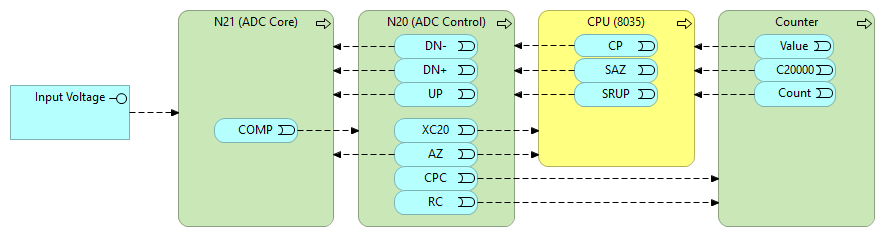
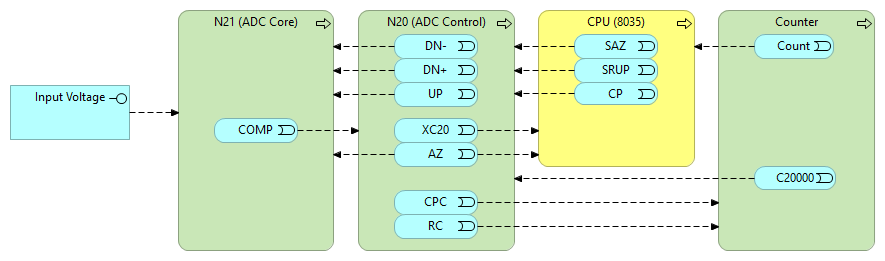
Created new screenshots, removed todo-part of the text. Still todo.

diff --git a/Deepdive/ADC/README.md b/Deepdive/ADC/README.md
@@ -24,62 +24,63 @@ Performing a measurement requires four components: The CPU, Expansion boards N20
 The CPU is the director of a measurement. It:
 - Feeds the clocksignal (**CP**) to the ADC Control
 - Commands the ADC Control to start a measurement with **SRUP** (Start Ramp Up) and auto-zero the ADC via **SAZ**(Set Auto Zero)
-- Counts Counter-overflows through **C2000** pulses.
+- Processes the number of counter-overflows (**XC20**)
 - Reads the final count-value from the Counter (**Count**) when the measurement finishes
 
 #### Board N20 (ADC Control)
 This board forms the digital control interface between the microcontroller, the ADC core and the Counter. Its functions include:
 - Sends control signals like **AZ** (Auto Zero), **UP**/**DN+**/**DN-** (Ramp UP, DowN for positive resp negative input voltages)
-- Generate the **CPC** (Clock Pulse Counter) signal for the Counter, which is just **CP** gated by **COMP**
+- Generate the **CPC** (Clock Pulse Counter) signal for the Counter, which is essentially **CP** gated by **COMP**
+- Counts Counter-overflows through **C2000** pulses, sends them to the CPU (**XC20**)
 - Resets the Counter via the **RC** (Reset Counter) pulse
 
 #### Board N21 (ADC Core)
 Here lies the analog heart of the converter:
 - Signal Input Path: Receives scaled signals from the analog front-end
-- Reference Voltage: Provides stable reference for de-integration phase
+- It provides a stable reference voltage for the de-integration phase
 - Auto-Zeroing: Ensures measurement accuracy by compensating for offset voltages. It is triggered by the **AZ** signal from the ADC Control.
 - Integrator: An op-amp and capacitor form the core integration circuit
 - Comparator: Detects when the integrator output crosses zero
 - Generate the **COMP** signal which indicates the ADC core is still busy (the name is probably short for COMPuting or COMPerator)
 
 #### The Counter
-Simple but essential: the Counter just counts pulses. It gets a clock pulse (**CPC**) from the ADC Control. When it overflows, it raises **C20000**. These pulses are counted by the CPU.
+Simple but essential: the Counter just counts pulses. It gets a clock pulse (**CPC**) from the ADC Control. When it overflows, it raises **C20000**. And when it's time to reset, it receives a signal (**RC**) from the ADC Control.
 
 # A Measurement Cycle in action
 Let’s walk through a full measurement cycle, based on scope captures and logic traces. We'll do this top-down, so first an overview, then the details.
 
-_Note: In the images below, the analogue traces are offset by +5V. That's because the digital 0V is -5V in reference to the analogue 0V. As a scope knows just one 0V (GND)._
+_Note: In the images below, the analogue traces are offset by +5V. That's because the digital 0V is -5V in reference to the analogue 0V and this is the way to show two signals in one screenshot (apart from Photoshop)._
 
-The screencapture below shows a full ADC-cycle. The input voltage is about 1.63V DC, the meter is in 2V range. The digital signals (top of the screen) are the signals as seen from the CPU's point of view.
+The screencapture below shows a full ADC-cycle. The input voltage is about 1351mV DC, the meter is in 2V range. The digital signals (top of the screen) are the signals as seen from the CPU's point of view.
 
-![ADC Full MeasurementCycle](assets/ADC_FullMeasurementCycle_1V63.png "A complete measurement-cycle").
+![ADC Full MeasurementCycle](assets/ADC_FullMeasurementCycle_1351mV.png "A complete measurement-cycle").
 
 #### @0ms: start of the cycle
-- The CPU releases the **AZ** signal. The other circuits are now able to accept measurement-signals
-- The CPU sets the **UP** signal. This initiates the 'Ramp-Up' phase.
-- The CPU leaves the **DN+** and **DN-** signal low, indicating no 'Ramp-Down' phase.
-- The input-signal is offered to the ADC (**TP2105**, yellow trace)
-- The ADC (**TP2106**, purple trace) starts integrating
-- The **COMP** signal is asserted by the ADC, meaning it's working hard
+- The input-signal (reverse polarity!) is offered to the ADC (**yellow trace**)
+- The CPU sets the **SRUP** signal. This initiates the 'Ramp-Up' phase.
+- The **AZ** signal is set low by the ADC-control, indicating there's no auto-zeroing going on.
 
-#### @100ms: The fixed time Ramp-Up phase is ready
-- The **UP** signal is reset
-- The **DN+** signal is set, meaning we're starting the Down-Ramp phase
-- The measurement-signal (**TP2105**, yellow trace) is set to the reference-voltage, with an opposite sign as the input-signal
-- The ADC (**TP2106**, purple trace) starts draining
-- The **COMP** signal stays high, as the ADC is still working.
+#### @0-100ms: Ramp-up phase
+- The ADC (**purple trace**) is integrating
+- As this is a fixed time phase, under control of the ADC Control, the CPU does not receive any signal. Note there are no timer-overflow (**XC20**) pulses.
+- Watch the clockpulses (**CP**) pulsing
 
-#### @180ms: Measurement ready
-- The ADC has is crossing zero, meaning we're ready.
-- The CPU asserts **AZ** indicating 'zero everything'
-- **DN+** is reset, indicating we're done with the Ramp-Down phase
-- The measurement-signal (**TP2105**, yellow trace) is set to 0V
-- The **COMP** signal is reset by the ADC, indicating is resting now.
+#### @100ms: The fixed-time Ramp-Up phase is ready, starting the Ramp-Down phase
+- The measurement-signal (**yellow trace**) is set to the reference-voltage (opposite polarity of the input voltage, which was already inversed)
+
+#### @100-170ms: Ramp-down phase
+- The ADC (**purple trace**) keeps draining
+- Now every 20000 pulses of the clock, the CPU receives the Counter Overflow pulse (**XC20**). The CPU counts the number of these pulses.
+
+#### @170ms: Measurement ready
+- The ADC (**purple trace**) has crossed zero, meaning we're ready. The CPU knows this, because the AutoZero signal (**AZ**) has been set by the ADC Control.
+- The CPU asserts **SAZ** telling the ADC Control to auto-zero.
+- The input signal to the ADC (**yellow trace**) is reset to 0V.
 
 ### A second example
-When you offer a small voltage (but in the same measurement range), the Ramp-down phase will be shorter as the ADC won't be charged up as much in the Ramp-Up phase. See the image below.
+When you offer a small voltage (but in the same measurement range), the Ramp-down phase will be shorter as the ADC won't be charged up as much in the Ramp-Up phase. See the image below for a measurement of 500mV.
 
-![ADC Full MeasurementCycle](assets/ADC_FullMeasurementCycle_0V60.png "A complete measurement-cycle").
+![ADC Full MeasurementCycle](assets/ADC_FullMeasurementCycle_0500mV.png "A complete measurement-cycle").
 
 # A measurement Cycle in detail
 
@@ -88,59 +89,3 @@ _Todo - not correct, make new screenshots_
 Timing accuracy is crucial in a dual-slope converter. The CPU provides a 2 MHz clock (labeled CP) used by the control logic. All measurement intervals are derived from this base clock. With a known time base, the measurement reduces to counting pulses.
 
 ![ADC Detail](assets/ADC_Cycle_Overview_N21.png "Cycle-detail - digital overview").
-
-
-### Phase 1: Ramp-Up (Integration)
-The measurement begins when the CPU asserts the SRUP signal (Start Ramp Up).
-
-The ADC Control resets the 20,000-count counter (RC = Reset Counter)
-
-Clock pulses (CPC) begin driving the counter
-
-AZ is released, disabling auto-zeroing and allowing the integrator to start
-
-UP is asserted, directing the ADC Analog to integrate the input voltage
-
-Once the comparator detects voltage, it asserts the COMP signal
-
-The integration period is fixed: 200,000 clock pulses, exactly 100 ms at 2 MHz. During this time, the input voltage charges the integrator’s capacitor linearly.
-
-Interestingly, the COMP signal doesn’t activate immediately. There’s a slight delay, likely due to residual offset or incomplete zeroing at the comparator input. Time to calibrate.
-
-![ADC Detail](assets/ADC_CycleStart_N21.png "Cycle-detail - start").
-
-During ramp-up, the counter tracks every CPC pulse. For every 20,000 counts, the carry-out (C20000) toggles. The ADC Control logic uses this to track progress toward the 200,000-pulse goal. Once ten carry pulses have been seen, the ramp-up phase ends.
-
-At this point, the capacitor holds a charge proportional to the input voltage.
-
-### Phase 2: Ramp-Down (de-integration)
-Now comes the clever part. The integrator is discharged using a fixed reference current, and the time it takes to return to zero is measured.
-
-The UP signal is deasserted
-The DN+ (or DN-, depending on input polarity) is asserted to begin ramp-down
-The counter is reset again via RC
-The CPU counts how many times the counter hits 20,000 using the XC20 signal
-
-![ADC Detail](assets/ADC_Cycle_Mid01_N21.png "Cycle-detail - mid").
-
-This continues until the comparator detects zero crossing, at which point COMP goes low again. The ADC Control:
-
-Halts the counter by stopping the CPC clock
-Resets the DN± signal
-Re-asserts AZ to begin a new auto-zero cycle
-The CPU pulses the SAZ signal to be sure the auto-zero, to make sure the auto-zero cycle starts. Probably to mitigate a failed measurement.
-
-![ADC Detail](assets/ADC_Cycle_Mid_N21.png "Cycle-detail - mid").
-
-
-At this point, the measurement is complete.
-
-Now the CPU needs to calculate the input voltage, based on the number of pulses counted during the Ramp-Down phase.
-
-In this example (see the measurement-pane in the image below):
-
-Ramp-up phase = 200.000 counts
-Ramp-down phase = 363.666-200.000=163.666 counts (=8x20.000 from XC20 + 3.666 from the counter)
-Reference-voltage = 2V (see the schematics in the Github-repository)
-Vin = (Tdown / Tup) × Vref = 163.666 / 200.000 * 2V = 1,63666V
-
